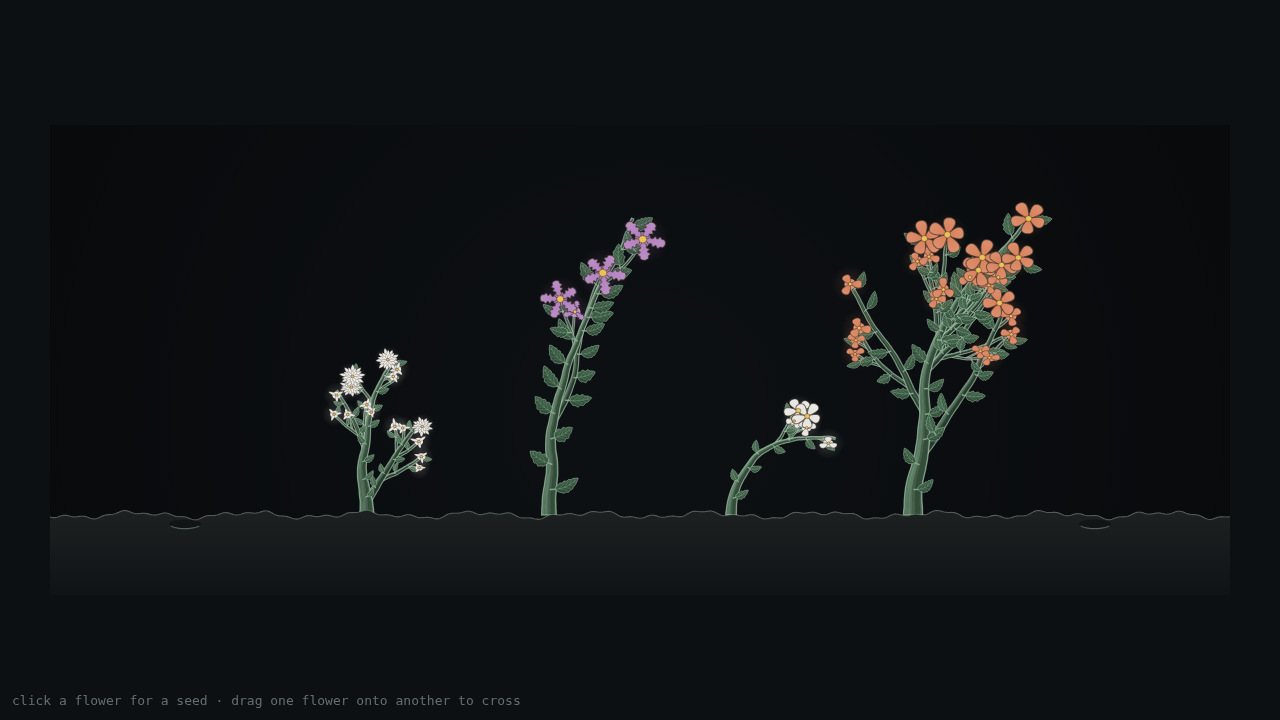
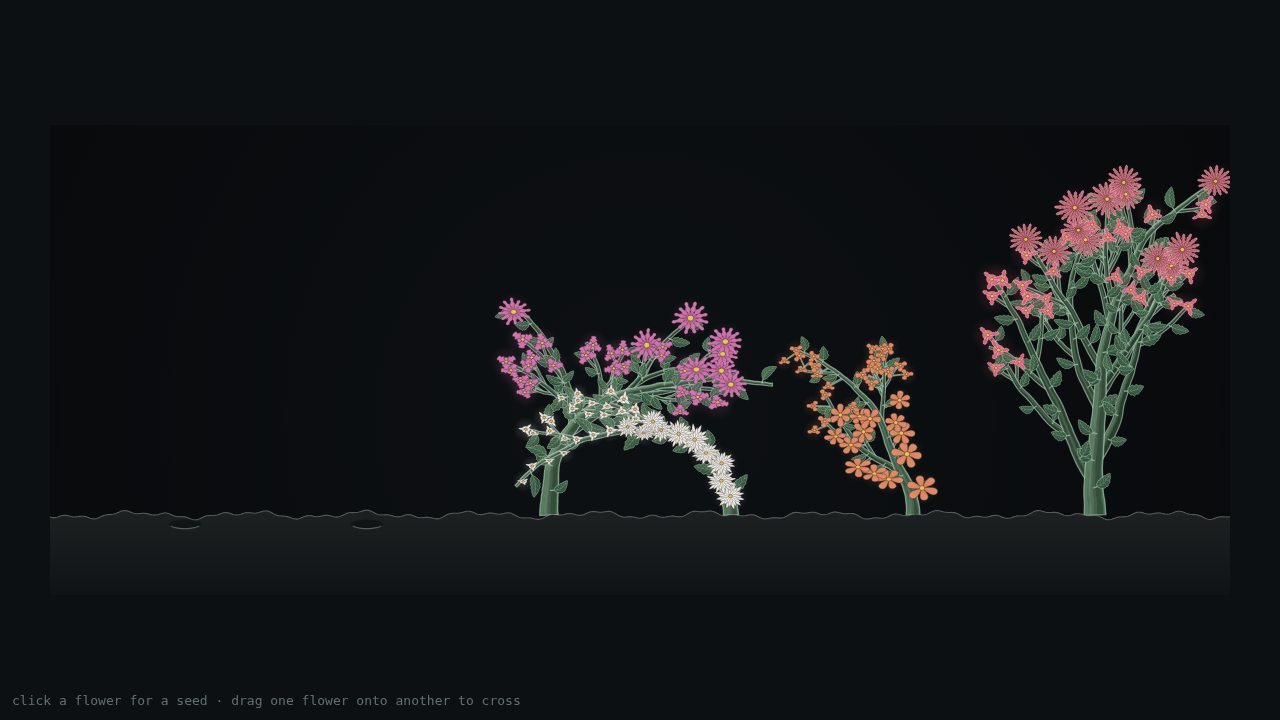
fix(render): three defects the lookdev sheet found and no assertion did
All three were invisible to 246 passing tests because every one of them
measured what growPlant RETURNS rather than what a plant looks like.

- Leaves were sized off bloomRadius, so the cluster size trade shrank
  every raceme, spike and umbel's FOLIAGE by up to 40% as a side
  effect. With five times the flower mass on top, clustered plants read
  as a blob on a stick — the exact defect the visual pass fixed in §19,
  reintroduced from a direction nothing was watching. Phenotype now
  carries leafScale, which does not take the trade.

- A bushy umbel put a full plate of florets on all thirty of its
  terminals and read as coral rather than as thirty flower heads. Side
  axes now carry a REDUCED head, not a full one and not a solitary
  flower — gating it off entirely scattered the flowers back across the
  plant's height and measurably undid the "all at one point" signature.

- The petal-width generalisation moved a number it claimed not to move:
  three clasped bud petals solve to a width 1.31x their length, wider
  than long, so a twelve-petal plant showed fat blobs beside narrow
  stars. Buds keep the constant they were tuned with; open flowers keep
  the packing rule, with a control pinning the scope.

The albino was a cream speck. It now has cotyledons and seedling
proportions, so it reads as a plant that came up and stopped.

Claude-Session: https://claude.ai/code/session_01VfiG5tCDpmCmCD7qx7CSzA

Changed region(s): [[0.375, 0.2139, 0.9688, 0.7333], [0.25, 0.4889, 0.3438, 0.7028]]

diff --git a/src/growth/sim.ts b/src/growth/sim.ts
@@ -56,29 +56,35 @@ function openness(tip: Tip, rand: () => number): number {
  * An albino seedling: it germinates, spends the seed's reserves, and dies.
  *
  * A separate function rather than a flag threaded through the main loop, because almost
- * nothing about it is the same — no branching, no leaves, no flowers, no tropism worth
- * modelling over so few ticks. It still produces a real Plant with real segments, because it
- * still occupies a plot and the player still has to look at it. That is the whole design: the
- * failure is VISIBLE and sits in the bed as evidence, rather than a seed quietly doing nothing.
+ * nothing about it is the same — no branching, no flowers, no tropism worth modelling over so
+ * few ticks. It still produces a real Plant with real segments, because it still occupies a
+ * plot and the player still has to look at it. That is the whole design: the failure is
+ * VISIBLE and sits in the bed as evidence, rather than a seed quietly doing nothing.
+ *
+ * It carries COTYLEDONS. The first version was a bare shoot roughly 8% of a living plant's
+ * height, and in the lookdev sheet it was a cream-coloured speck — not obviously a plant at
+ * all, let alone a plant that had failed. A seedling with a pair of pale seed-leaves reads
+ * immediately as something that came up and stopped, which is the entire message.
  */
 function growAlbino(pheno: Phenotype, seed: number, origin: Vec2): Plant {
   const rand = mulberry32(seed);
   const segments: StrokeSegment[] = [];
-  // Short and getting shorter: reserves run out. Never enough height to look like a young
-  // healthy plant that might still make it.
-  const ticks = 9 + Math.floor(rand() * 5);
+  const leaves: LeafSpec[] = [];
+  // Short and getting shorter: reserves run out. Tall enough to read as a seedling, never
+  // close to a living plant — the two must not be confusable at a glance.
+  const ticks = 16 + Math.floor(rand() * 6);
   let pos = { ...origin };
   let dir = UP;
-  let width = pheno.baseWidth * 0.45;
+  let width = pheno.baseWidth * 0.42;
 
   for (let tick = 0; tick < ticks; tick++) {
     dir += (rand() - 0.5) * 0.3;
     // Each step shorter than the last — the shoot visibly gives up rather than being cut off
     // mid-stride at an arbitrary tick count.
-    const len = 3.4 * (1 - tick / ticks);
+    const len = 6.2 * (1 - tick / ticks);
     const nx = pos.x + Math.cos(dir) * len;
     const ny = pos.y + Math.sin(dir) * len;
-    const w1 = width * 0.9;
+    const w1 = width * 0.94;
     segments.push({
       x0: pos.x,
       y0: pos.y,
@@ -90,11 +96,29 @@ function growAlbino(pheno: Phenotype, seed: number, origin: Vec2): Plant {
       tick,
       chain: 0,
     });
+
+    // One opposed pair of seed-leaves, low down, and nothing after them. A seedling that kept
+    // producing leaves as it rose would be a small healthy plant, which is the opposite of
+    // what this is.
+    if (tick === Math.floor(ticks * 0.35)) {
+      for (const side of [1, -1]) {
+        leaves.push({
+          attach: { x: nx, y: ny },
+          angle: dir + side * 1.15,
+          length: pheno.leafScale * 0.4,
+          width: pheno.leafScale * 0.22,
+          tick,
+          seed: rand(),
+          side,
+        });
+      }
+    }
+
     pos = { x: nx, y: ny };
     width = w1;
   }
 
-  return { segments, blooms: [], leaves: [], albino: true };
+  return { segments, blooms: [], leaves, albino: true };
 }
 
 export function growPlant(pheno: Phenotype, seed: number, origin: Vec2): Plant {
@@ -194,7 +218,19 @@ export function growPlant(pheno: Phenotype, seed: number, origin: Vec2): Plant {
    */
   const terminate = (tip: Tip, tick: number): void => {
     if (pheno.inflorescence === "umbel") {
-      const rays = 5 + Math.floor(rand() * 3);
+      // A full plate forms on a MAIN axis; a side twig carries a reduced one.
+      //
+      // With every terminal bearing a full head, a bushy umbel put thirty plates of florets on
+      // one plant and the result did not read as thirty flower heads — it read as coral. Past
+      // a certain density small florets stop being countable and turn into texture, and the
+      // plant loses the very architecture this locus exists to express.
+      //
+      // Reduced rather than absent, and that distinction was worth a revision: gating the head
+      // off entirely gave side twigs a single solitary flower each, which scattered the plant's
+      // flowers back across its whole height and measurably undid the "all at one point"
+      // signature. Real umbellifers reduce their secondary umbels; they do not swap them for a
+      // different architecture.
+      const rays = tip.depth <= 1 ? 5 + Math.floor(rand() * 3) : 3;
       // Umbels open together, not in sequence — the synchrony IS the look.
       const open = Math.min(1, 0.74 + 0.3 * rand());
       for (let k = 0; k < rays; k++) {
@@ -302,7 +338,10 @@ export function growPlant(pheno: Phenotype, seed: number, origin: Vec2): Plant {
         // Scaled against bloomRadius, not against stem width. At a quarter of bloom size
         // the foliage rendered as dark flecks on the stem and contributed nothing to the
         // silhouette — on a real plant a leaf is comparable to a flower.
-        const scale = pheno.bloomRadius * (0.62 + 0.5 * pheno.vigour);
+        // `leafScale`, not `bloomRadius` — see the note on the field. A clustered plant has
+        // small flowers and ordinary leaves, and reading the flower size here silently
+        // shrank the foliage of every raceme, spike and umbel in the game.
+        const scale = pheno.leafScale * (0.62 + 0.5 * pheno.vigour);
         leaves.push({
           attach: { x: tip.pos.x, y: tip.pos.y },
           angle: tip.dir + side * (0.85 + 0.25 * rand()),

diff --git a/test/inflorescence.test.ts b/test/inflorescence.test.ts
@@ -26,6 +26,7 @@ const BASE: Phenotype = {
   hueClass: 2,
   white: false,
   bloomRadius: 16,
+  leafScale: 16,
   viable: true,
 };
 
@@ -333,6 +334,38 @@ describe("petal count is a real allele series, not a dial", () => {
     }
   });
 
+  it("REGRESSION: a BUD keeps the clasped petal it was tuned with", () => {
+    // The angular-packing rule does not apply to buds, and applying it anyway was a real
+    // regression that shipped: a bud has three petals whatever the genotype, and three petals
+    // sharing a circle solve to a width 1.31x their own length — a petal wider than it is
+    // long. On a twelve-petal plant the fat blobs sat beside narrow open stars and the plant
+    // read as two species on one stem. A bud's petals are CLASPED, so they are meant to
+    // overlap and their width is not set by how many must fit around a circle.
+    //
+    // Caught by looking at the lookdev sheet. Nothing in this file was measuring buds.
+    for (const petalCount of [5, 6, 8, 12]) {
+      const bud = layoutBloom(
+        { ...BASE, petalCount },
+        { x: 0, y: 0 },
+        -Math.PI / 2,
+        () => 0.5,
+        0.4, // below the 0.55 bud threshold
+        0,
+      );
+      expect(bud.petals.length, `${petalCount} petals`).toBe(3);
+      for (const p of bud.petals)
+        expect(p.width / p.length, `${petalCount} petals`).toBeLessThan(0.8);
+    }
+  });
+
+  it("CONTROL: an OPEN flower still gets the packing rule", () => {
+    // Pins that the exemption above is scoped to buds. Restoring the constant for every
+    // flower would satisfy the test above and undo the twelve-petal fix entirely.
+    const open = bloomOf({ petalCount: 12 });
+    expect(open.petals.length).toBe(12);
+    expect(open.petals[0]!.width / open.petals[0]!.length).toBeLessThan(0.4);
+  });
+
   it("CONTROL: the old constant width factor WOULD have fused a twelve-petal flower", () => {
     // Pins that the assertion above discriminates, using the value that actually shipped.
     const radius = 16;
@@ -344,10 +377,20 @@ describe("petal count is a real allele series, not a dial", () => {
 describe("an albino seedling", () => {
   const albino = grow({ viable: false });
 
-  it("germinates and dies — no flowers, no leaves", () => {
+  it("germinates and dies — it never flowers", () => {
     expect(albino.albino).toBe(true);
     expect(albino.blooms).toHaveLength(0);
-    expect(albino.leaves).toHaveLength(0);
+  });
+
+  it("carries a single opposed pair of cotyledons and nothing more", () => {
+    // The first version had no leaves at all, and in the lookdev sheet it was a cream speck —
+    // not obviously a plant, let alone a failed one. Two seed-leaves make it read immediately
+    // as something that came up and stopped.
+    //
+    // Exactly two, not "at least two": a seedling that kept producing leaves as it rose would
+    // be a small healthy plant, which is the opposite of the message.
+    expect(albino.leaves).toHaveLength(2);
+    expect(albino.leaves[0]!.side).toBe(-albino.leaves[1]!.side);
   });
 
   it("still exists as a plant in the bed", () => {
@@ -356,10 +399,15 @@ describe("an albino seedling", () => {
     expect(albino.segments.length).toBeGreaterThan(4);
   });
 
-  it("never reaches the height of a living plant", () => {
-    const top = (p: Plant) => Math.min(...p.segments.map((s) => s.y1));
-    expect(ORIGIN.y - top(albino)).toBeLessThan(30);
-    expect(ORIGIN.y - top(grow({ viable: true }))).toBeGreaterThan(80);
+  it("is unmistakably shorter than a living plant", () => {
+    // Both bounds matter. Too short and it is a speck; as tall as a living plant and the
+    // player cannot tell a failure from a slow starter.
+    const height = (p: Plant) =>
+      ORIGIN.y - Math.min(...p.segments.map((s) => s.y1));
+    const dead = height(albino);
+    const living = height(grow({ viable: true }));
+    expect(dead).toBeGreaterThan(35);
+    expect(dead).toBeLessThan(living * 0.45);
   });
 
   it("CONTROL: the identical genotype made viable grows a normal plant", () => {

diff --git a/lookdev/lookdev.ts b/lookdev/lookdev.ts
@@ -28,6 +28,7 @@ const BASE: Phenotype = {
   hueClass: 0,
   white: false,
   bloomRadius: 22,
+  leafScale: 22,
   petalCount: 5,
   inflorescence: "solitary",
   viable: true,
@@ -51,6 +52,41 @@ const CASES: { label: string; pheno: Phenotype }[] = [
   { label: "petal: frilled", pheno: { ...BASE, petalShape: "frilled" } },
   { label: "hue: violet", pheno: { ...BASE, hueClass: 3 } },
   { label: "hue: blue", pheno: { ...BASE, hueClass: 4 } },
+  // Architecture. These carry the cluster size trade with them, because the smaller floret is
+  // part of what each form LOOKS like — showing an umbel at solitary flower size would be a
+  // panel of a plant the game cannot produce, which is worse than no panel.
+  {
+    label: "raceme",
+    pheno: {
+      ...BASE,
+      inflorescence: "raceme",
+      bloomRadius: BASE.bloomRadius * 0.72,
+    },
+  },
+  {
+    label: "spike",
+    pheno: {
+      ...BASE,
+      inflorescence: "spike",
+      bloomRadius: BASE.bloomRadius * 0.66,
+    },
+  },
+  {
+    label: "umbel",
+    pheno: {
+      ...BASE,
+      inflorescence: "umbel",
+      bloomRadius: BASE.bloomRadius * 0.58,
+    },
+  },
+  { label: "12 petals", pheno: { ...BASE, petalCount: 12 } },
+  {
+    label: "12 petals, doubled",
+    pheno: { ...BASE, petalCount: 12, doubled: true },
+  },
+  // The only panel showing a plant that is not alive. Worth a slot precisely because it is
+  // rare in play — it is the one form a player may meet once and need to recognise.
+  { label: "albino (ll) — dies", pheno: { ...BASE, viable: false } },
 ];
 
 const grid = document.getElementById("grid")!;

diff --git a/src/growth/bloom.ts b/src/growth/bloom.ts
@@ -55,8 +55,22 @@ export function layoutBloom(
   // The two fill constants are not new numbers: they are the values that reproduce the
   // hand-tuned 0.66 at five petals and 0.42 at nine. A generalisation that moved the numbers
   // it was generalising from would be a regression wearing a refactor's clothes (§20).
+  //
+  // ...which is exactly what it did to BUDS, and the comment above did not save it. A bud has
+  // three petals whatever the genotype, and three petals in a 120-degree slot solve to a width
+  // of 1.31 times the length — a petal wider than it is long. On a twelve-petal plant the buds
+  // came out as fat blobs beside narrow open stars and read as two different species on one
+  // stem. Caught in the lookdev sheet, not by any assertion.
+  //
+  // A bud is the case the packing argument does not apply to: its petals are CLASPED, so they
+  // are supposed to overlap and their width is not set by how many have to fit around a
+  // circle. It keeps the constant that was tuned for it.
   const fill = pheno.doubled ? 0.58 : 0.51;
-  const widthFactor = 2 * Math.tan((fill * Math.PI) / perWhorl);
+  const widthFactor = bud
+    ? pheno.doubled
+      ? 0.42
+      : 0.66
+    : 2 * Math.tan((fill * Math.PI) / perWhorl);
 
   for (let w = 0; w < whorls; w++) {
     const whorlScale = 1 - 0.22 * w;

diff --git a/src/render/stage.ts b/src/render/stage.ts
@@ -47,6 +47,9 @@ export const PALETTE = {
   stemAlbino: "#c3b98a",
   stemAlbinoHi: "#ded4a2",
   stemAlbinoRim: "rgba(250,244,206,0.6)",
+  /** Cotyledons on an albino seedling — the same cream, a shade lighter than its stem. */
+  leafAlbino: "#cec48f",
+  leafAlbinoLit: "#e6dcaa",
   // Translucent, not opaque, so one pair of tones shades BOTH stem colours. Opaque bands
   // would need a matched pair per base colour, and every future colour would need two more.
   stemShade: "rgba(12,24,16,0.26)",
@@ -330,11 +333,11 @@ export function paintPlant(
       lf.attach.x - nx * half,
       lf.attach.y - ny * half,
     );
-    g.addColorStop(0, PALETTE.leafLit);
-    g.addColorStop(1, PALETTE.leaf);
+    g.addColorStop(0, plant.albino ? PALETTE.leafAlbinoLit : PALETTE.leafLit);
+    g.addColorStop(1, plant.albino ? PALETTE.leafAlbino : PALETTE.leaf);
     ctx.fillStyle = g;
     ctx.fill();
-    ctx.strokeStyle = PALETTE.leafRim;
+    ctx.strokeStyle = plant.albino ? PALETTE.stemAlbinoRim : PALETTE.leafRim;
     ctx.lineWidth = 1;
     ctx.stroke();
 

diff --git a/src/genome/express.ts b/src/genome/express.ts
@@ -116,6 +116,12 @@ export function express(g: Genome): Phenotype {
     // genotype in the game, which would collapse the whole point of open-ended breeding.
     bloomRadius:
       (14 + 9 * (1 - b) + 4 * v) * CLUSTER_SIZE_TRADE[inflorescenceOf(g)],
+    // Deliberately WITHOUT the cluster trade. Leaves belong to the plant, not to the flower
+    // head; an umbel-bearing plant has ordinary foliage. Sizing them off bloomRadius shrank
+    // every clustered plant's leaves by 40% as a side effect, and with five times the flower
+    // mass on top of that the plant read as a blob on a stick — the exact defect the visual
+    // pass had already fixed once (§19), reintroduced from a direction nothing was watching.
+    leafScale: 14 + 9 * (1 - b) + 4 * v,
     viable: isViable(g),
   };
 }

diff --git a/src/types.ts b/src/types.ts
@@ -30,6 +30,15 @@ export type Phenotype = {
   petalShape: PetalShape;
   petalCount: number; // petals per whorl on a single flower
   inflorescence: Inflorescence;
+  /**
+   * Reference size for foliage, in px.
+   *
+   * Separate from `bloomRadius` because a clustered architecture shrinks its FLOWERS and not
+   * its leaves — an umbel-bearing plant has ordinary leaves and many small florets. Sizing
+   * leaves off bloomRadius made every clustered plant grow 40% smaller foliage as a side
+   * effect, so the flower mass swamped the plant and it read as a blob on a stick.
+   */
+  leafScale: number;
   hueClass: 0 | 1 | 2 | 3 | 4;
   white: boolean; // pigment block expressed
   bloomRadius: number; // px

diff --git a/test/bloom.test.ts b/test/bloom.test.ts
@@ -19,6 +19,7 @@ const SINGLE: Phenotype = {
   hueClass: 2,
   white: false,
   bloomRadius: 14,
+  leafScale: 14,
   petalCount: 5,
   inflorescence: "solitary",
   viable: true,

diff --git a/test/sim.test.ts b/test/sim.test.ts
@@ -17,6 +17,7 @@ const BASE: Phenotype = {
   hueClass: 0,
   white: false,
   bloomRadius: 14,
+  leafScale: 14,
   petalCount: 5,
   inflorescence: "solitary",
   viable: true,

diff --git a/test/leaves.test.ts b/test/leaves.test.ts
@@ -28,6 +28,7 @@ const P: Phenotype = {
   hueClass: 0,
   white: false,
   bloomRadius: 22,
+  leafScale: 22,
   petalCount: 5,
   inflorescence: "solitary",
   viable: true,

diff --git a/test/stage.test.ts b/test/stage.test.ts
@@ -29,6 +29,7 @@ const P: Phenotype = {
   hueClass: 0,
   white: false,
   bloomRadius: 14,
+  leafScale: 14,
   petalCount: 5,
   inflorescence: "solitary",
   viable: true,
